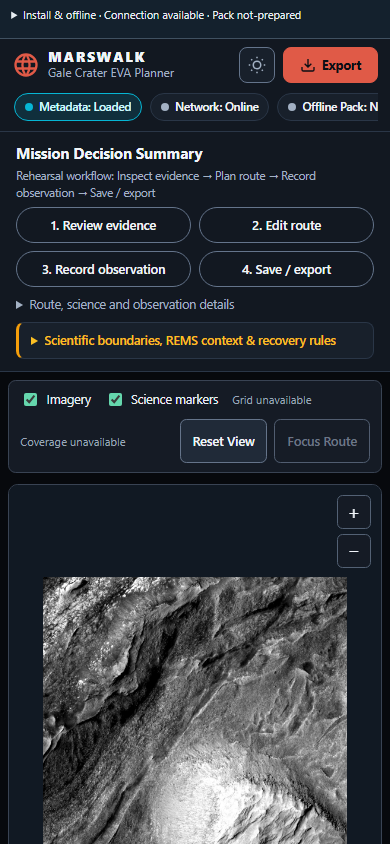
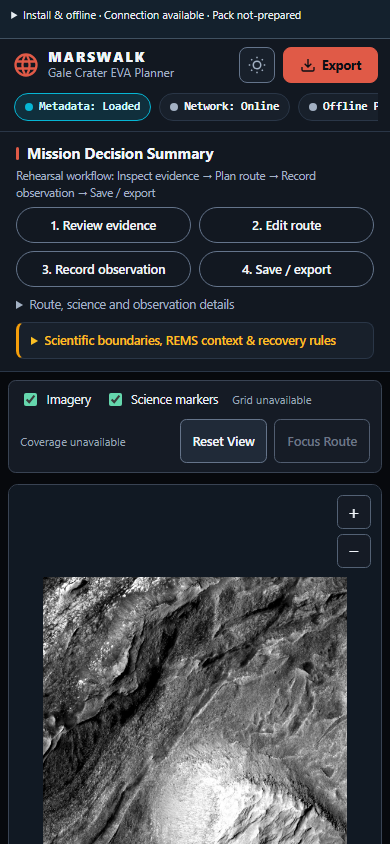
style: one card per evidence panel, heading markers and telemetry pills
Pass two of the visual polish, styling only.
- Exploration Confidence and Image Passport inner sections become ruled
  sections inside one card instead of nested bordered boxes.
- Small Mars-red marker on section headings and monospace status pills,
  as single shared rules in styles.scss (no component budget growth).
- Science panel padding on the shared scale; after screenshots refreshed.

Build passes (only the Leaflet CommonJS warning); 0 contrast failures and
0 horizontal overflow at 1440/820/390 in both themes.

Changed region(s): [[0.0308, 0.0924, 0.7077, 0.2156], [0.7385, 0.1232, 0.9846, 0.154]]

diff --git a/src/styles.scss b/src/styles.scss
@@ -223,6 +223,28 @@ a:focus-visible {
   color: var(--text-primary);
 }
 
+/* Mission-control accents shared across panels (one rule, no per-component budget cost). */
+app-mission-review .review-heading::before,
+app-exploration-confidence h2::before,
+app-image-passport h2::before,
+app-science-context h2::before,
+.transfer-panel h2::before {
+  content: '';
+  display: inline-block;
+  width: 3px;
+  height: 0.9em;
+  margin-right: var(--space-2);
+  border-radius: 2px;
+  background: var(--mars-accent);
+  vertical-align: -0.08em;
+}
+
+/* Status pills read as compact telemetry. */
+app-header .mission-meta {
+  font-family: var(--font-mono);
+  letter-spacing: 0;
+}
+
 /* Scrollbars */
 ::-webkit-scrollbar {
   width: 6px;

diff --git a/src/app/evidence/exploration-confidence.component.scss b/src/app/evidence/exploration-confidence.component.scss
@@ -170,3 +170,12 @@ h3 {
   outline: 3px solid var(--border-focus);
   outline-offset: 2px;
 }
+
+/* One card per panel: inner sections are separated by a rule, not nested boxes. */
+.confidence-card,
+.warnings-block {
+  background: transparent;
+  border-width: 1px 0 0;
+  border-radius: 0;
+  padding: var(--space-3) 0 0;
+}

diff --git a/src/app/evidence/image-passport.component.scss b/src/app/evidence/image-passport.component.scss
@@ -180,3 +180,11 @@ h3 {
 .limitations-list li {
   margin-bottom: 0.35rem;
 }
+
+/* One card per panel: inner sections are separated by a rule, not nested boxes. */
+.passport-card {
+  background: transparent;
+  border-width: 1px 0 0;
+  border-radius: 0;
+  padding: var(--space-3) 0 0;
+}

diff --git a/src/app/science/science-context.component.scss b/src/app/science/science-context.component.scss
@@ -18,7 +18,7 @@
 }
 .science-context {
   gap: 1rem;
-  padding: 1.25rem;
+  padding: var(--space-4);
   border-radius: var(--radius-lg);
   background: var(--bg-card);
 }

diff --git a/docs/design/TAKOU_VISUAL_POLISH.md b/docs/design/TAKOU_VISUAL_POLISH.md
@@ -26,6 +26,15 @@ dependency or budget change.
    merged phone rule set instead of two overlapping ones). Visible map on first view at 390 × 844:
    **215 px → 359 px** (screenshot script) and **178 px → 323 px** in the smoke harness.
 
+## Pass two (mission-control detail)
+
+- Exploration Confidence and Image Passport: one card per panel; the inner sections are
+  separated by a rule instead of nested bordered boxes.
+- Section headings (mission summary, confidence, passport, science, transfer) carry a small
+  Mars-red marker; header status pills use the monospace telemetry face. Both are single shared
+  rules in `src/styles.scss`, so no component style budget grows.
+- Science panel padding on the shared scale.
+
 ## Measurements (production build, Chrome 157 headless)
 
 | Check | Before (ff875d3) | After |
@@ -62,6 +71,4 @@ certification.
 - The PWA "Install & offline" bar is styled inside `src/app/core/pwa-panel.component.ts`
   (coordinator scope) and still competes with the header.
 - The Mission Briefing card (`src/app/mission-briefing/`) keeps its own uppercase label style.
-- Exploration Confidence and Image Passport still nest cards inside a card; flattening them is
-  the next step in this pass.
 - 200 % zoom was not separately measured.
